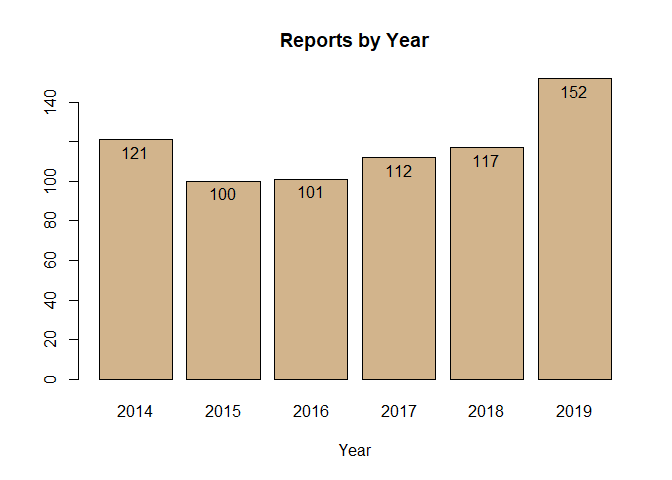
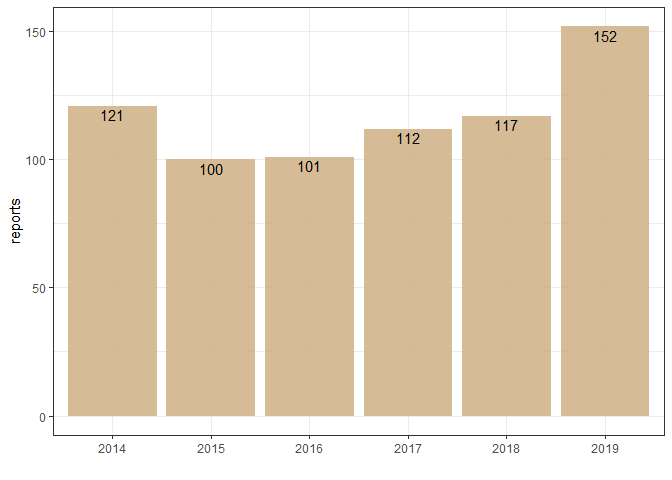
corect first ggplots

diff --git a/firefighters_lm_wildfires.md b/firefighters_lm_wildfires.md
@@ -61,8 +61,7 @@ wage_rl<-
 
 get_fire<- GET(wage_rl) %>%
   content(as= 'text', encoding = "UTF-8") %>%
-  fromJSON(.) %>%
-  glimpse(.)
+  fromJSON(.) %>% glimpse(.)
 ```
 
     ## List of 2
@@ -103,31 +102,40 @@ df_wage<- get_fire$data %>%
          'Mean_Wage_Appx_MOE' = 'Average Wage Appx MOE') %>%
   mutate(Year= as.numeric(Year),
          log_Wage= log(Average_Wage),
-         US_code= map_chr(PUMA,
-                                  function(x) { nth(str_split(x, ", ")[[1]],-1) } ))
+         US_code= map_chr(PUMA, function(x) { nth(str_split(x, ", ")[[1]],-1) } ))
 ```
 
 Here you can see the data divided by year and countries
 
 ``` r
-pres_yir<- table(df_wage$Year) #add to bar plot
-
-{bp<- barplot(table(df_wage$Year), col = "tan", main = 'Reports by Year', xlab = 'Year')
-#grid(nx= NA, ny= NULL)
-text(bp,pres_yir-6,labels = pres_yir)}
+df_wage %>%
+  count(Year, name = "count_yr") %>% 
+  mutate(Year = factor(Year)) %>%
+  ggplot( aes(x=Year, y= count_yr))+
+  geom_bar(stat= "identity",fill="tan", alpha=.9)+
+  geom_text(aes(label=count_yr),
+            position=position_dodge (width=0.3), vjust=1.2)+
+  xlab("")+ ylab('reports')+grids()+
+  theme_bw()
 ```
 
 ![](firefighters_lm_wildfires_files/figure-gfm/simple%20vis-1.png)<!-- -->
 
 ``` r
-df_wage<- df_wage %>%
-  mutate(US_code=str_replace(US_code,"(79500US4805905)", "")) #bug fixing "TX (79500US4805905)"
-
-{bp<- barplot(sort(table(df_wage$US_code)), col = "seagreen2", main = 'Reports by State', xlab = 'Year')
-grid(nx= NA, ny= NULL, col = "black")}
+df_wage %>%
+  count(US_code, name = "count_st") %>% 
+  mutate(US_code = fct_reorder(US_code, desc(count_st))) %>%
+  ggplot( aes(x=US_code, y=count_st))+
+  geom_bar(stat="identity", fill="#f68060", alpha=.9) +
+    coord_flip() + xlab("")
 ```
 
 ![](firefighters_lm_wildfires_files/figure-gfm/simple%20vis-2.png)<!-- -->
+
+``` r
+df_wage<- df_wage %>%
+  mutate(US_code=str_replace(US_code,"(79500US4805905)", "")) #bug fixing "TX (79500US4805905)"
+```
 
 ### Wiki coder
 
@@ -149,16 +157,12 @@ df_fire<- wiki_get[[1]] %>%
 kable(df_fire[sample(1:703,4),c(1,2,5)])
 ```
 
-|     | State      | US_code | Year |
-|:----|:-----------|:--------|-----:|
-| 179 | Florida    | FL      | 2019 |
-| 608 | Texas      | TX      | 2016 |
-| 309 | Illinois   | IL      | 2014 |
-| 143 | California | CA      | 2014 |
-
-``` r
-#df_fire <- merge(df_wage,wiki_state,by="US_code")
-```
+|     | State          | US_code | Year |
+|:----|:---------------|:--------|-----:|
+| 397 | Missouri       | MO      | 2017 |
+| 579 | Texas          | TX      | 2019 |
+| 385 | Maryland       | MD      | 2015 |
+| 565 | South Carolina | SC      | 2015 |
 
 ### Download Automation
 
@@ -175,11 +179,9 @@ call_fire<- function(x,year, m_TF= T)
   my_get<- GET(x) %>%
     content(as= 'text', encoding = "UTF-8") %>%
     readHTMLTable(trim=T, as.data.frame=T, header=m_TF)
-  if(m_TF)
-  {my_get<- bind_rows(my_get)[4:6]} else
-  {my_get<-my_get[[3]][-1,] %>% 
-    'colnames<-'(my_get[[3]][1,1:3])
-  }
+  if(m_TF) {my_get<- bind_rows(my_get)[4:6] }
+  else     {my_get<-my_get[[3]][-1,] %>% 
+    'colnames<-'(my_get[[3]][1,1:3]) }
   my_get<- my_get %>%
   'colnames<-'(c('State','fires_Num','Acres_burned')) %>% 
   filter(!is.na(State)) %>%
@@ -201,9 +203,7 @@ firelist<- rbind(df_14,df_15,df_16,df_18,df_19) %>%
          across(c(fires_Num,Acres_burned), ~parse_number(.)),
          across(State, ~replace(.,.=='New York ', "New York") ) )%>%
   filter(!str_detect(State, "United States")) #%>%
-  #left_join(df_fire)#, by= c("State", "Year"))
 
-# merge & head
 fire_full<- merge(firelist, df_fire, by= c("State", "Year")) %>%
   select(-c(9:10))
 #fix NY לתקן
@@ -235,12 +235,12 @@ Here are some rows from the data I combined
 kable(fire_full[sample(1:600,4),], digits = 2,row.names = F, align = 'c')
 ```
 
-|   State    | Year | fires_Num | Acres_burned | US_code |        Instance_of         |                        PUMA                        | Average_Wage | log_Wage |
-|:----------:|:----:|:---------:|:------------:|:-------:|:--------------------------:|:--------------------------------------------------:|:------------:|:--------:|
-|  Florida   | 2019 |   2121    |    122500    |   FL    | state of the United States | Walton, Washington, Holmes & Bay Counties PUMA, FL |   64637.05   |  11.08   |
-|  Georgia   | 2016 |   5086    |    52119     |   GA    | state of the United States |              Forsyth County PUMA, GA               |   38005.98   |  10.55   |
-| Washington | 2018 |   1743    |    438834    |   WA    | state of the United States |    Skagit, Island & San Juan Counties PUMA, WA     |   61646.64   |  11.03   |
-|   Idaho    | 2018 |   1132    |    604481    |   ID    | state of the United States |   Lewiston City & Nez Perce Reservation PUMA, ID   |   36081.84   |  10.49   |
+|   State    | Year | fires_Num | Acres_burned | US_code |        Instance_of         |                               PUMA                               | Average_Wage | log_Wage |
+|:----------:|:----:|:---------:|:------------:|:-------:|:--------------------------:|:----------------------------------------------------------------:|:------------:|:--------:|
+|  Kentucky  | 2016 |   1220    |    73864     |   KY    | state of the United States | Northern Kentucky Area Development District (Southeast) PUMA, KY |   46975.10   |  10.76   |
+| New Jersey | 2019 |    727    |    11346     |   NJ    | state of the United States |            Burlington County (South & East) PUMA, NJ             |   42108.97   |  10.65   |
+|  Oklahoma  | 2019 |   1104    |    67142     |   OK    | state of the United States |                        Enid City PUMA, OK                        |   89943.48   |  11.41   |
+|  Montana   | 2014 |   1646    |    38118     |   MT    | state of the United States |                    Great Falls City PUMA, MT                     |   29044.54   |  10.28   |
 
 ## Overlooking the Data
 
@@ -270,9 +270,7 @@ and also has the biggest change in wildfires
 ``` r
 big_2 <- unlist(fire_full %>%
                   count(State,wt= Acres_burned, sort = T, name = 'mean_Acres') %>% 
-                  top_n(2, mean_Acres) %>%
-                  select(1))
-
+                  top_n(2, mean_Acres) %>% select(1))
 as.vector(big_2)
 ```
 
@@ -332,8 +330,7 @@ fire_full %>% filter(big6) %>%
   labs(title = 'Avarage Wage by State of big 6')+ xlab("Average Wage")+
   theme_ipsum() +scale_x_continuous(labels=scales::comma,limits = c(0,200000))+
     theme(
-      legend.position="none",
-      panel.spacing = unit(0.1, "lines"),
+      legend.position="none", panel.spacing = unit(0.1, "lines"),
       strip.text.x = element_text(size = 6) )
 ```
 
@@ -374,8 +371,7 @@ lm_year<- lm(data= df_fire, Average_Wage~ Year)
 lm_state<-lm(data= df_fire, Average_Wage~ US_code)
 lm_comb<- lm(data= df_fire, Average_Wage~ Year+ US_code)
 
-#anova test to Year effect
-anova(lm_state, lm_comb)
+anova(lm_state, lm_comb) #anova test to Year effect
 ```
 
     ## Analysis of Variance Table
@@ -389,8 +385,7 @@ anova(lm_state, lm_comb)
     ## Signif. codes:  0 '***' 0.001 '**' 0.01 '*' 0.05 '.' 0.1 ' ' 1
 
 ``` r
-#anova test to State effect
-anova(lm_year , lm_comb)
+anova(lm_year , lm_comb) #anova test to State effect
 ```
 
     ## Analysis of Variance Table
@@ -1560,7 +1555,6 @@ lm_big6<- lm(data = fire_full %>% filter(big6),
              Average_Wage~Acres_burned+US_code )
 lm_all<- lm(data = fire_full,
              Average_Wage~Acres_burned )
-
 sjPlot::tab_model(lm_CA,lm_all,lm_big6, show.ci= F,show.loglik= T,
                   collapse.se = T,dv.labels = c("lm CA","lm all","lm big6"))
 ```
@@ -1803,7 +1797,6 @@ lm_big6_2<- lm(data = fire_full %>% filter(big6),
              Average_Wage~fires_Num+US_code )
 lm_all2<- lm(data = fire_full,
              Average_Wage~fires_Num )
-
 sjPlot::tab_model(lm_CA2,lm_all2,lm_big6_2, show.ci= F,show.loglik= T,
                   collapse.se = T, dv.labels = c("lm CA","lm all","lm big6"))
 ```
